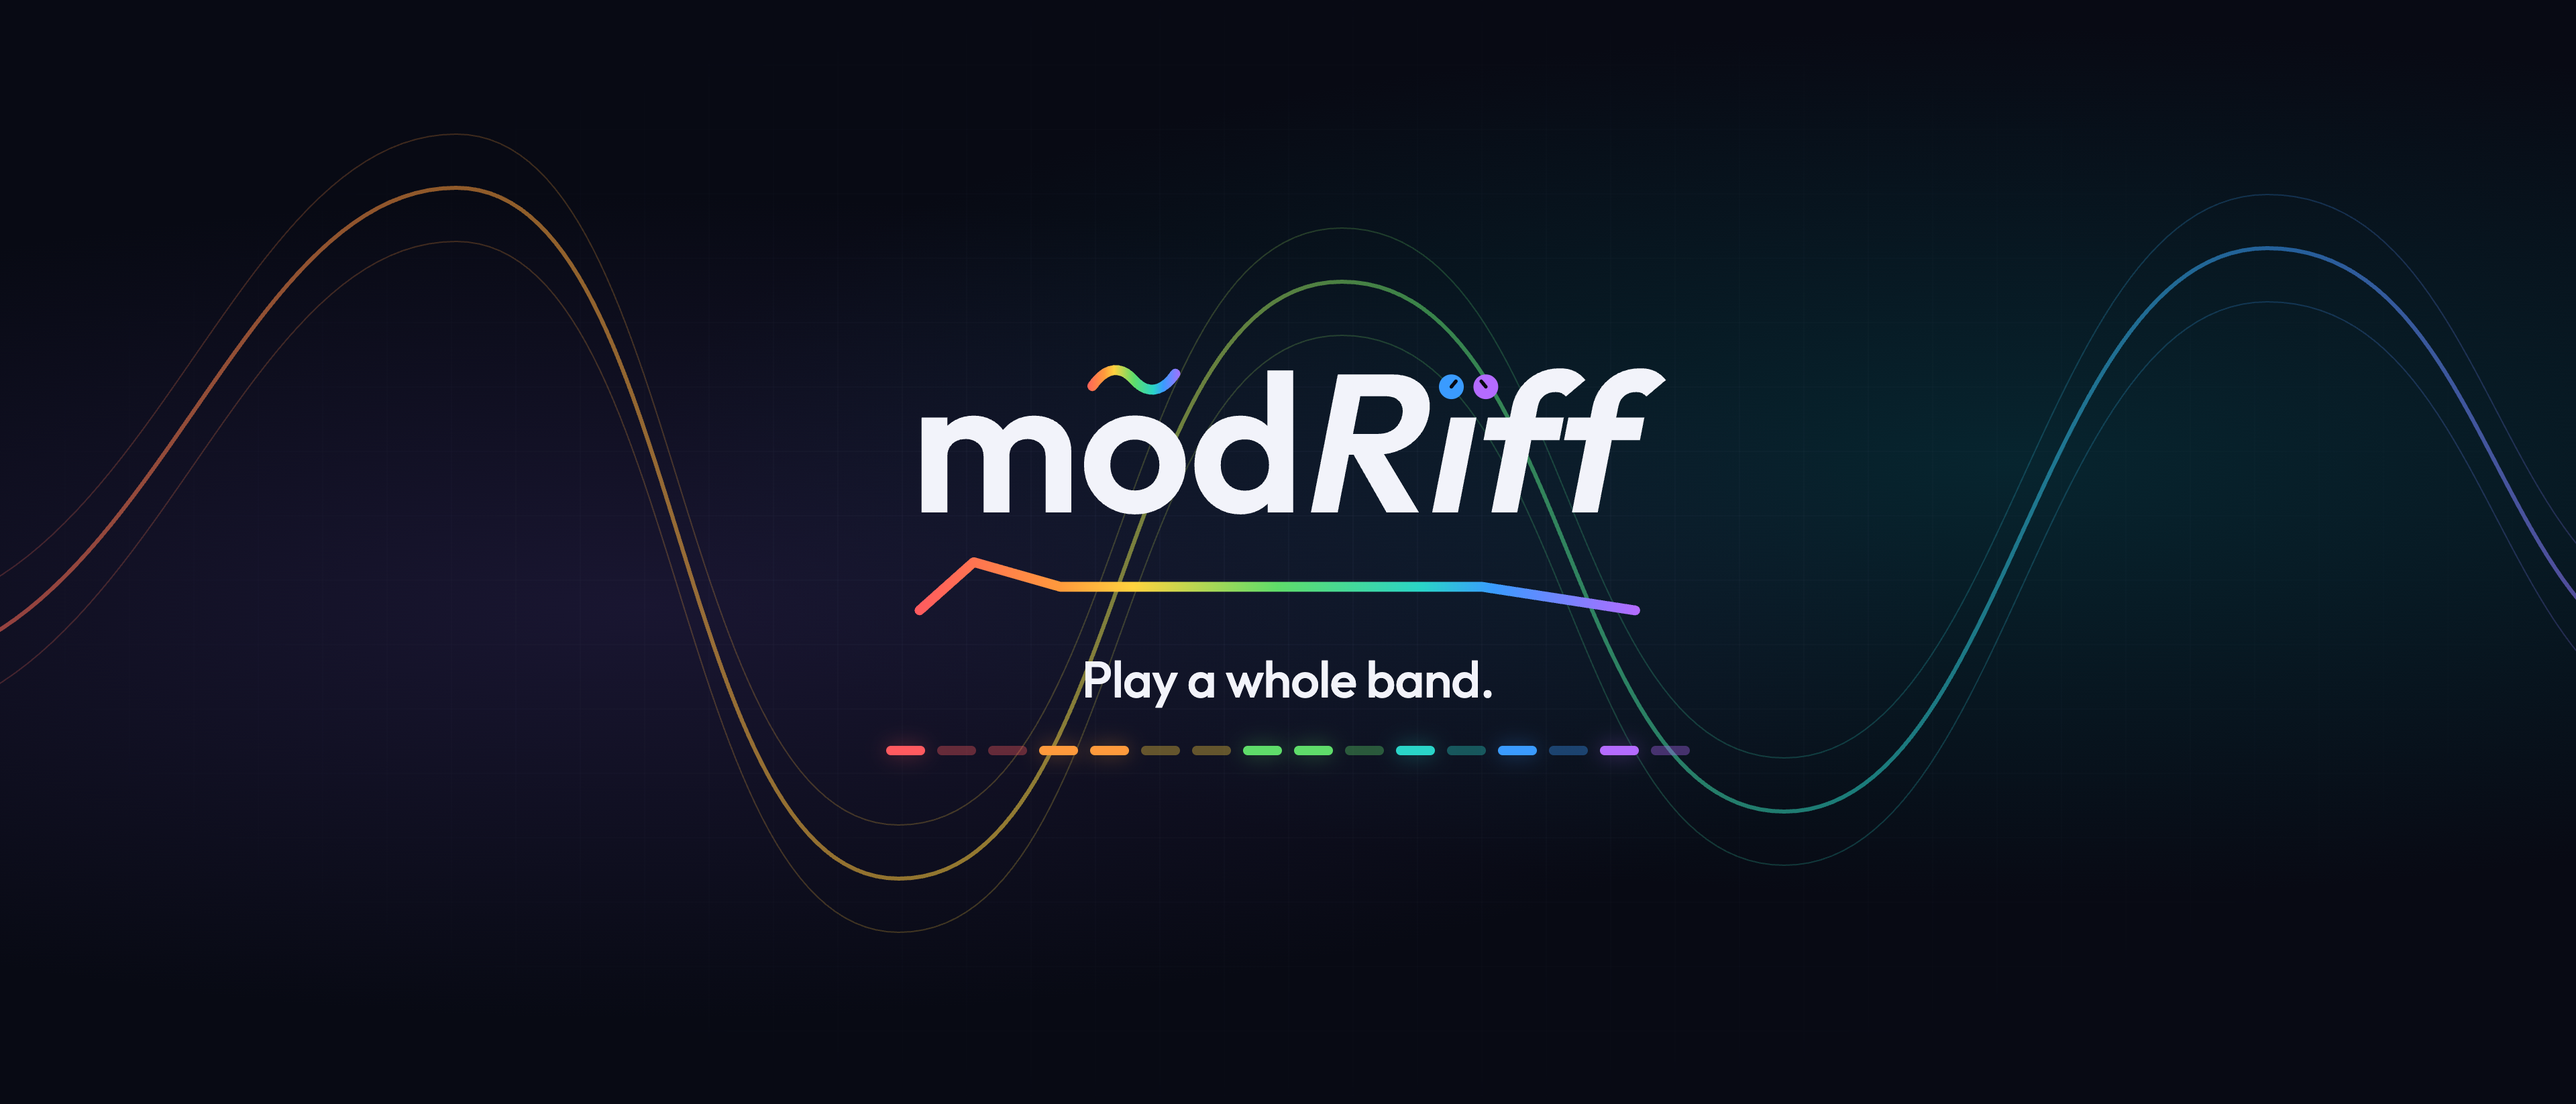
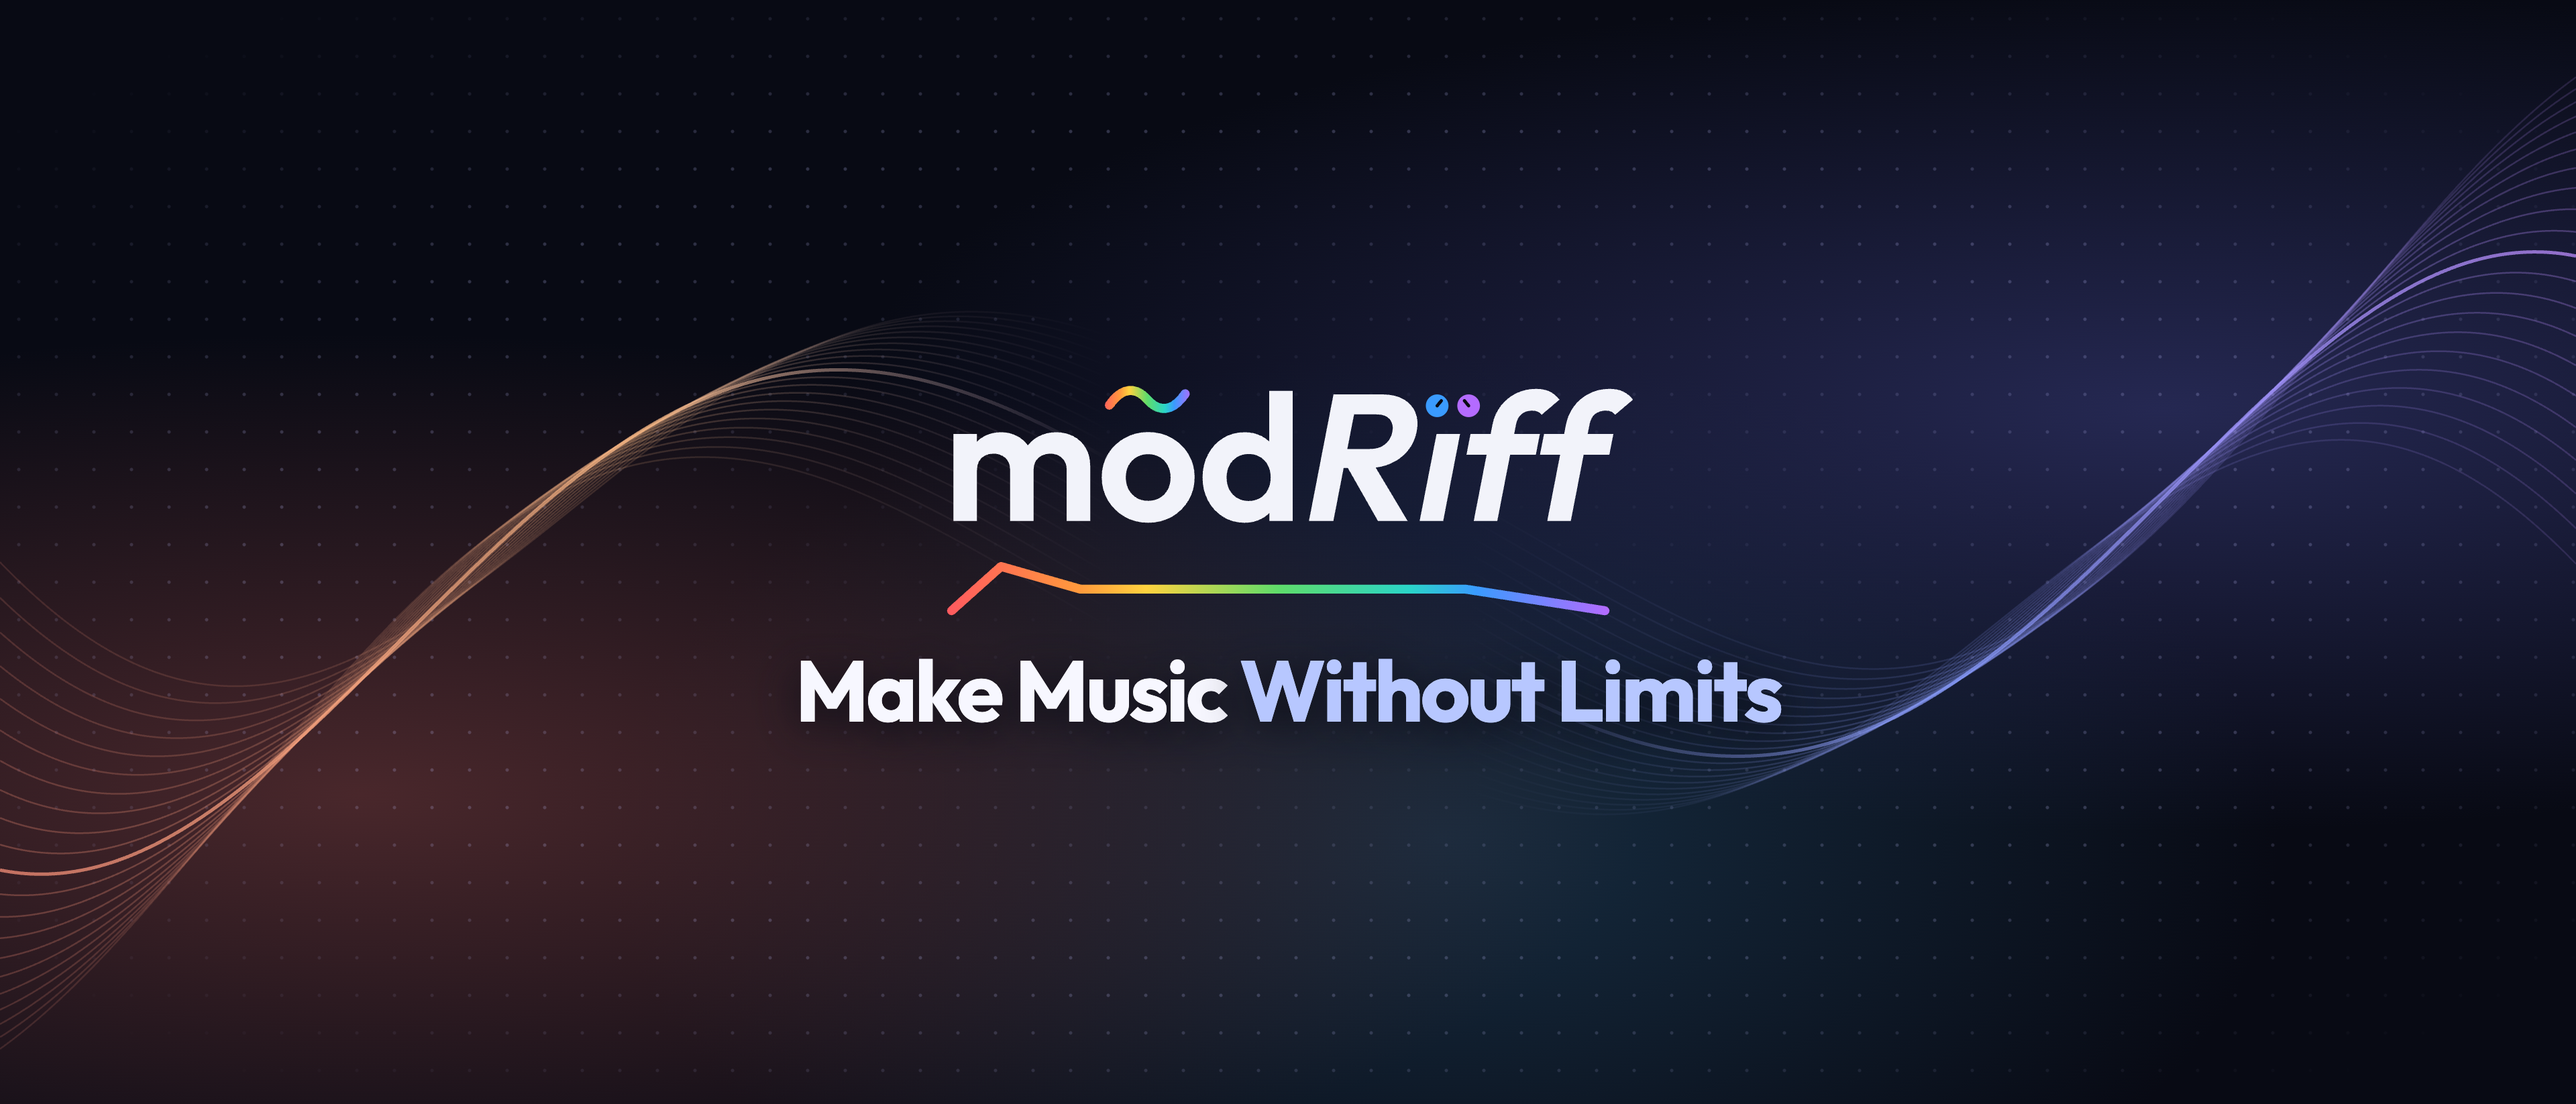
App Store: remake header and search creative assets
Codex-Session: https://claude.ai/code/session_01a20b1a-0b0c-72d0-a499-937a5e22bde2

diff --git a/docs/app-store/creative-assets/artwork.html b/docs/app-store/creative-assets/artwork.html
@@ -1,28 +1,129 @@
 <!doctype html>
+<html lang="en">
 <meta charset="utf-8">
-<title>mõdRïff — App Store creative assets</title>
+<title>mõdRïff App Store creative assets</title>
 <style>
-@font-face{font-family:Outfit;src:url(../../../fonts/outfit-latin-500-normal.woff2);font-weight:500}
-*{box-sizing:border-box}html,body{margin:0;width:3840px;height:1646px;overflow:hidden;background:#080a14;color:#f2f3fa;font-family:Outfit,sans-serif}
-body{background:radial-gradient(ellipse at 25% 55%,#28204a88,transparent 48%),radial-gradient(ellipse at 78% 42%,#06434d77,transparent 48%),#080a14}
-.grid{position:absolute;inset:0;background-image:linear-gradient(#9caddb09 2px,transparent 2px),linear-gradient(90deg,#9caddb09 2px,transparent 2px);background-size:96px 96px;mask-image:radial-gradient(ellipse,#000,transparent 75%)}
-.wave{position:absolute;left:0;top:180px;width:3840px;height:1300px;opacity:.55}
-.core{position:absolute;left:1097px;top:493px;width:1646px;height:661px;display:flex;flex-direction:column;align-items:center;justify-content:center;gap:36px}
-.wordmark{display:block;width:1150px;height:auto;flex-shrink:0}
-.line{font-size:76px;letter-spacing:-1px;margin:0;white-space:nowrap}
-.steps{display:flex;gap:18px;margin-top:16px}.steps i{width:58px;height:14px;border-radius:7px;background:var(--c);opacity:.35}.steps i.on{opacity:1;box-shadow:0 0 30px color-mix(in srgb,var(--c),transparent 60%)}
-.search .core{left:836px;top:765px;width:2168px;height:1030px;flex-direction:row;gap:75px;justify-content:center}
-.copy{width:930px;flex-shrink:0}.search .wordmark{width:900px;margin-bottom:38px}.search .line{font-size:104px;line-height:1.08;white-space:normal;letter-spacing:-3px;max-width:880px}.sub{font-size:43px;color:#b6bed7;margin-top:38px;letter-spacing:1px}
-.interface{width:990px;height:730px;overflow:hidden;border:3px solid #41445f;border-radius:32px;background:#06070d;box-shadow:0 45px 100px #0009;flex-shrink:0;position:relative}.interface img{position:absolute;width:990px;max-width:none;top:-180px;left:-3px}
-.search .wave{top:530px;opacity:.35}.search .steps{gap:12px;margin-top:46px}.search .steps i{width:36px;height:12px}
+@font-face {
+  font-family: Outfit;
+  src: url(../../../fonts/outfit-latin-700-normal.woff2);
+  font-weight: 700;
+}
+* { box-sizing: border-box; }
+html, body { margin: 0; width: 3840px; height: 1646px; overflow: hidden; }
+html.search, .search body { height: 2560px; }
+body {
+  position: relative;
+  color: #f7f7ff;
+  font-family: Outfit, sans-serif;
+  background:
+    radial-gradient(ellipse at 14% 72%, #49272b 0, transparent 41%),
+    radial-gradient(ellipse at 84% 37%, #252852 0, transparent 43%),
+    radial-gradient(ellipse at 56% 76%, #162c40 0, transparent 41%),
+    #080a14;
+}
+.field {
+  position: absolute;
+  inset: 0;
+  background: radial-gradient(circle, #c2c3ff39 2px, transparent 3px) 0 0 / 56px 56px;
+  mask-image: radial-gradient(ellipse, transparent 12%, #000 55%, transparent 89%);
+}
+.traces { position: absolute; inset: 0; }
+.core {
+  position: absolute;
+  left: 1097px;
+  top: 493px;
+  width: 1646px;
+  height: 661px;
+  display: flex;
+  flex-direction: column;
+  justify-content: center;
+  align-items: center;
+}
+.copy { display: flex; flex-direction: column; align-items: center; gap: 38px; }
+.wordmark { display: block; width: 1050px; height: auto; }
+.line {
+  margin: 0;
+  font-size: 128px;
+  font-weight: 700;
+  line-height: 1;
+  letter-spacing: -4px;
+  white-space: nowrap;
+  text-shadow: 0 12px 64px #080a14;
+}
+.line span { color: #b7c7ff; }
+.search .core {
+  left: 836px;
+  top: 765px;
+  width: 2168px;
+  height: 1030px;
+  flex-direction: row;
+  gap: 84px;
+}
+.search .copy { width: 952px; flex-shrink: 0; align-items: flex-start; gap: 44px; }
+.search .wordmark { width: 680px; }
+.search .line { font-size: 143px; line-height: 1.01; }
+.search .line span { display: block; }
+.interface {
+  width: 1030px;
+  height: 868px;
+  overflow: hidden;
+  border: 5px solid #545982;
+  border-radius: 60px;
+  box-shadow: 0 32px 95px #03050bc9, 0 0 120px #6e77f244;
+  flex-shrink: 0;
+  position: relative;
+}
+.interface img { position: absolute; top: -155px; left: 0; width: 1020px; }
 </style>
 <body>
-<div class="grid"></div>
-<svg class="wave" viewBox="0 0 3840 1300" fill="none"><defs><linearGradient id="rainbow"><stop stop-color="#ff5a5f"/><stop offset=".2" stop-color="#ff9a3c"/><stop offset=".4" stop-color="#ffd23f"/><stop offset=".55" stop-color="#5fdc6a"/><stop offset=".7" stop-color="#2ad4c8"/><stop offset=".85" stop-color="#3a9bff"/><stop offset="1" stop-color="#b46bff"/></linearGradient></defs><g stroke="url(#rainbow)"><path d="M-200 820 C220 820 340 100 680 100 S1000 1130 1340 1130 S1660 240 2000 240 S2330 1030 2660 1030 S3040 190 3380 190 S3720 820 4040 820" stroke-width="6"/><path d="M-200 900 C220 900 340 180 680 180 S1000 1210 1340 1210 S1660 320 2000 320 S2330 1110 2660 1110 S3040 270 3380 270 S3720 900 4040 900" stroke-width="2" opacity=".4"/><path d="M-200 740 C220 740 340 20 680 20 S1000 1050 1340 1050 S1660 160 2000 160 S2330 950 2660 950 S3040 110 3380 110 S3720 740 4040 740" stroke-width="2" opacity=".4"/></g></svg>
-<main class="core" id="core"></main>
+<div class="field" aria-hidden="true"></div>
+<canvas class="traces" width="3840" height="1646" aria-hidden="true"></canvas>
+<main class="core">
+  <div class="copy">
+    <img class="wordmark" src="splash-logo.svg" alt="mõdRïff">
+    <h1 class="line">Make Music <span>Without Limits</span></h1>
+  </div>
+</main>
 <script>
-const search=new URLSearchParams(location.search).get('placement')==='search';
-if(search){document.body.classList.add('search');document.documentElement.style.height=document.body.style.height='2560px';}
-const steps='<div class="steps">'+Array.from({length:16},(_,i)=>'<i class="'+([0,3,4,7,8,10,12,14].includes(i)?'on':'')+'" style="--c:'+['#ff5a5f','#ff9a3c','#ffd23f','#5fdc6a','#2ad4c8','#3a9bff','#b46bff'][Math.floor(i*7/16)]+'"></i>').join('')+'</div>';
-document.getElementById('core').innerHTML=search?'<div class="copy"><img class="wordmark" src="splash-logo.svg" alt="mõdRïff"><p class="line">Play a<br>whole band.</p><div class="sub">Chords. Beats. Melodies.</div>'+steps+'</div><div class="interface"><img alt="Actual mõdRïff Live interface, cropped to chord pads and melody controls" src="../screenshots/v6.9.2/iphone-6.9in-02-live.png"></div>':'<img class="wordmark" src="splash-logo.svg" alt="mõdRïff"><p class="line">Play a whole band.</p>'+steps;
+const search = new URLSearchParams(location.search).get('placement') === 'search';
+const core = document.querySelector('.core');
+if (search) {
+  document.documentElement.classList.add('search');
+  core.insertAdjacentHTML('beforeend', `
+    <div class="interface">
+      <img src="../screenshots/v7.1-captioned/raw/iphone-01-live.png" alt="Live chord pads in mõdRïff">
+    </div>
+  `);
+}
+
+const canvas = document.querySelector('.traces');
+if (search) canvas.height = 2560;
+const ctx = canvas.getContext('2d');
+const { width, height } = canvas;
+const gradient = ctx.createLinearGradient(0, 0, width, 0);
+gradient.addColorStop(0, '#f68e78');
+gradient.addColorStop(0.25, '#ffbd88');
+gradient.addColorStop(0.43, '#ddc8e500');
+gradient.addColorStop(0.57, '#a6adff00');
+gradient.addColorStop(0.76, '#899dff');
+gradient.addColorStop(1, '#be8dff');
+ctx.strokeStyle = gradient;
+
+// Fan out toward the edges so the brightest traces sit away from the copy.
+for (let trace = -10; trace <= 10; trace++) {
+  ctx.beginPath();
+  for (let x = 0; x <= width; x += 8) {
+    const along = (x - width / 2) / (width / 2);
+    const fan = Math.pow(Math.abs(along), 1.15);
+    const wave = Math.sin(along * 5 + trace * 0.066) * (0.13 + fan * 0.16);
+    const y = height * (0.51 + wave + trace * (0.005 + fan * 0.012));
+    if (x === 0) ctx.moveTo(x, y);
+    else ctx.lineTo(x, y);
+  }
+  ctx.lineWidth = trace === 0 ? 5 : 2.5;
+  ctx.globalAlpha = trace === 0 ? 0.74 : 0.32 - Math.abs(trace) * 0.017;
+  ctx.stroke();
+}
 </script>
+</body>
+</html>

diff --git a/docs/app-store/creative-assets/README.md b/docs/app-store/creative-assets/README.md
@@ -8,21 +8,17 @@ Search Results** (or import them through Asset Library):
 | Product page header | `modriff-header.png` | 3840 × 1646 |
 | Search results | `modriff-search.png` | 3840 × 2560 |
 
-Both use the actual splash-screen SVG logo from `#unlock-logo` in `index.html`,
-including its wave, knobs and envelope line. `splash-logo.svg` is exported from
-that source and its dark-theme palette on every render, rather than typesetting
-an approximation of the name.
+Both feature the English listing subtitle, **Make Music Without Limits**, over
+waveform traces. The mark comes from `#unlock-logo` in `index.html`, including
+its wave, knobs and envelope line. Each render exports `splash-logo.svg` from
+that source and its dark-theme palette.
 
-These are separate placement assets, not a Universal asset. Assign the search
-image explicitly rather than selecting “Use header asset in search results.”
-The artwork has an opaque background. The generous surrounding space is
-intentional: Apple's placements crop differently across devices. Preview both
-in App Store Connect before submitting them for review.
+Assign each image to its placement. The waveform artwork extends beyond the
+safe area so it can fill different crops. Preview both placements in App Store
+Connect before submitting them for review.
 
-The search artwork uses the existing actual Live screenshot at
-`../screenshots/v6.9.2/iphone-6.9in-02-live.png`, cropped to the chord controls;
-the interface is not an illustrated mockup. English copy is used in both assets.
-No app behavior or release labels change.
+The search artwork pairs the subtitle with the chord pads from the Live iPhone
+capture at `../screenshots/v7.1-captioned/raw/iphone-01-live.png`.
 
 Regenerate with `node docs/app-store/creative-assets/render.mjs` from the repo
 root. Requires Node with built-in WebSocket and Google Chrome on macOS (override
@@ -30,14 +26,12 @@ the executable with `CHROME`). The renderer uses an ephemeral local server and
 Chrome profile, waits for fonts and images, and checks each focal element
 against Apple's placement safe area before saving the PNGs.
 
-Verified against Apple's specifications on November 16, 2026:
+Verified against Apple's specifications on November 23, 2026.
 
-- Header safe area: 1646 × 661 at (1097, 493).
-- Search safe area at maximum resolution: 2168 × 1030 at (836, 765).
-- PNG dimensions and absence of alpha channel checked after rendering.
-- Both final compositions visually inspected; `./check.sh` passes.
+- The header wordmark and subtitle fit within the 1646 × 661 safe area at (1097, 493).
+- The search wordmark, subtitle and chord pads fit within the 2168 × 1030 safe area at (836, 765).
+- Both PNGs were visually inspected and checked for dimensions and opacity.
+- `./check.sh` passed.
 
-Sources:
-
-- https://developer.apple.com/help/app-store-connect/reference/app-information/creative-assets-specifications
-- https://developer.apple.com/app-store/asset-best-practices/
+- [Apple’s creative asset specifications](https://developer.apple.com/help/app-store-connect/reference/app-information/creative-assets-specifications)
+- [Apple’s App Store asset best practices](https://developer.apple.com/app-store/asset-best-practices/)

diff --git a/docs/app-store.md b/docs/app-store.md
@@ -43,7 +43,7 @@ Limits are Apple's; counts are characters.
 
 Characters outside plain ASCII are allowed.
 
-**Subtitle** (30): `Every part, always in key` (25)
+**Subtitle** (30): `Make Music Without Limits` (25)
 
 **Promotional text** (170, editable any time without a new build):
 
@@ -54,11 +54,11 @@ Characters outside plain ASCII are allowed.
 **Keywords** (100, comma-separated, no spaces after commas):
 
 ```
-drum machine,synth,music theory,midi,sampler,songwriting,backing track,looper,piano,guitar,practice
+drum machine,synth,theory,midi,sampler,songwriting,backing track,looper,piano,guitar,practice
 ```
 
-(99.) "groovebox" and "chord" left for the name; "sequencer", "beat maker" and "jam" went to make room for "backing track", "looper", "piano", "guitar" and "practice" (the five do not fit in the room the two freed alone). Do not repeat words already in the name or subtitle ("key", "every", "chord", "groovebox", "part", "always"), do not use the category
-name, and do not use another product's name: an `iReal` keyword would be a trademark rejection.
+(93.) The name covers “chord” and “groovebox,” and the subtitle covers “music.”
+Keep keywords distinct from the name, subtitle and category, and omit other products’ names.
 
 **Description** (2174 of 4000). One line per paragraph on purpose: App Store Connect keeps every line
 break you paste, so a description wrapped to 85 columns shows a break mid-sentence. It names no other product
@@ -240,6 +240,12 @@ Contact: support@modriff.com
 8. Tap another locked control: the "Complete Your Studio" offer shows.
 9. Settings > Help & about > Store, then Restore Purchases.
 10. Sampler: tap Record; the microphone permission prompt appears; allow it, record a second, play it back.
+
+## Header and search results
+
+Upload the two PNGs in [creative-assets](app-store/creative-assets/README.md)
+under the English version’s **Header and Search Results** tab. Both use the
+listing subtitle, “Make Music Without Limits.”
 
 ## Screenshots
 
